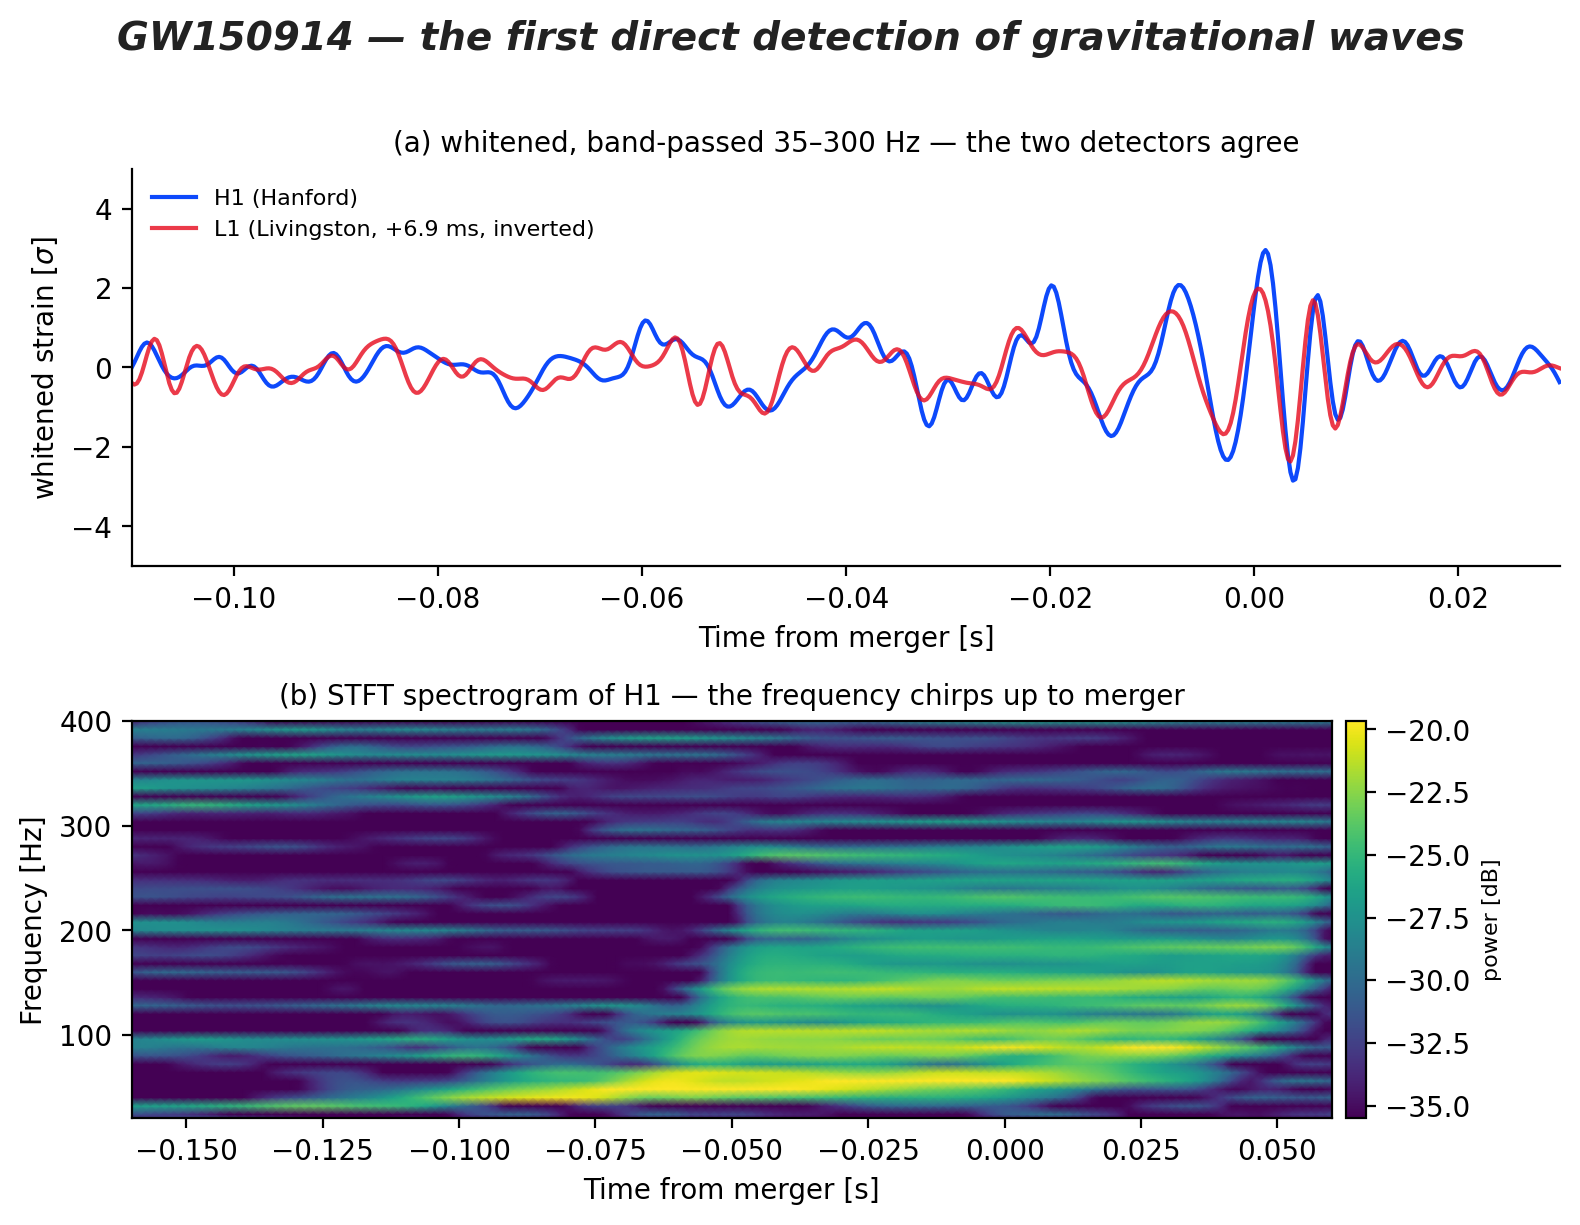
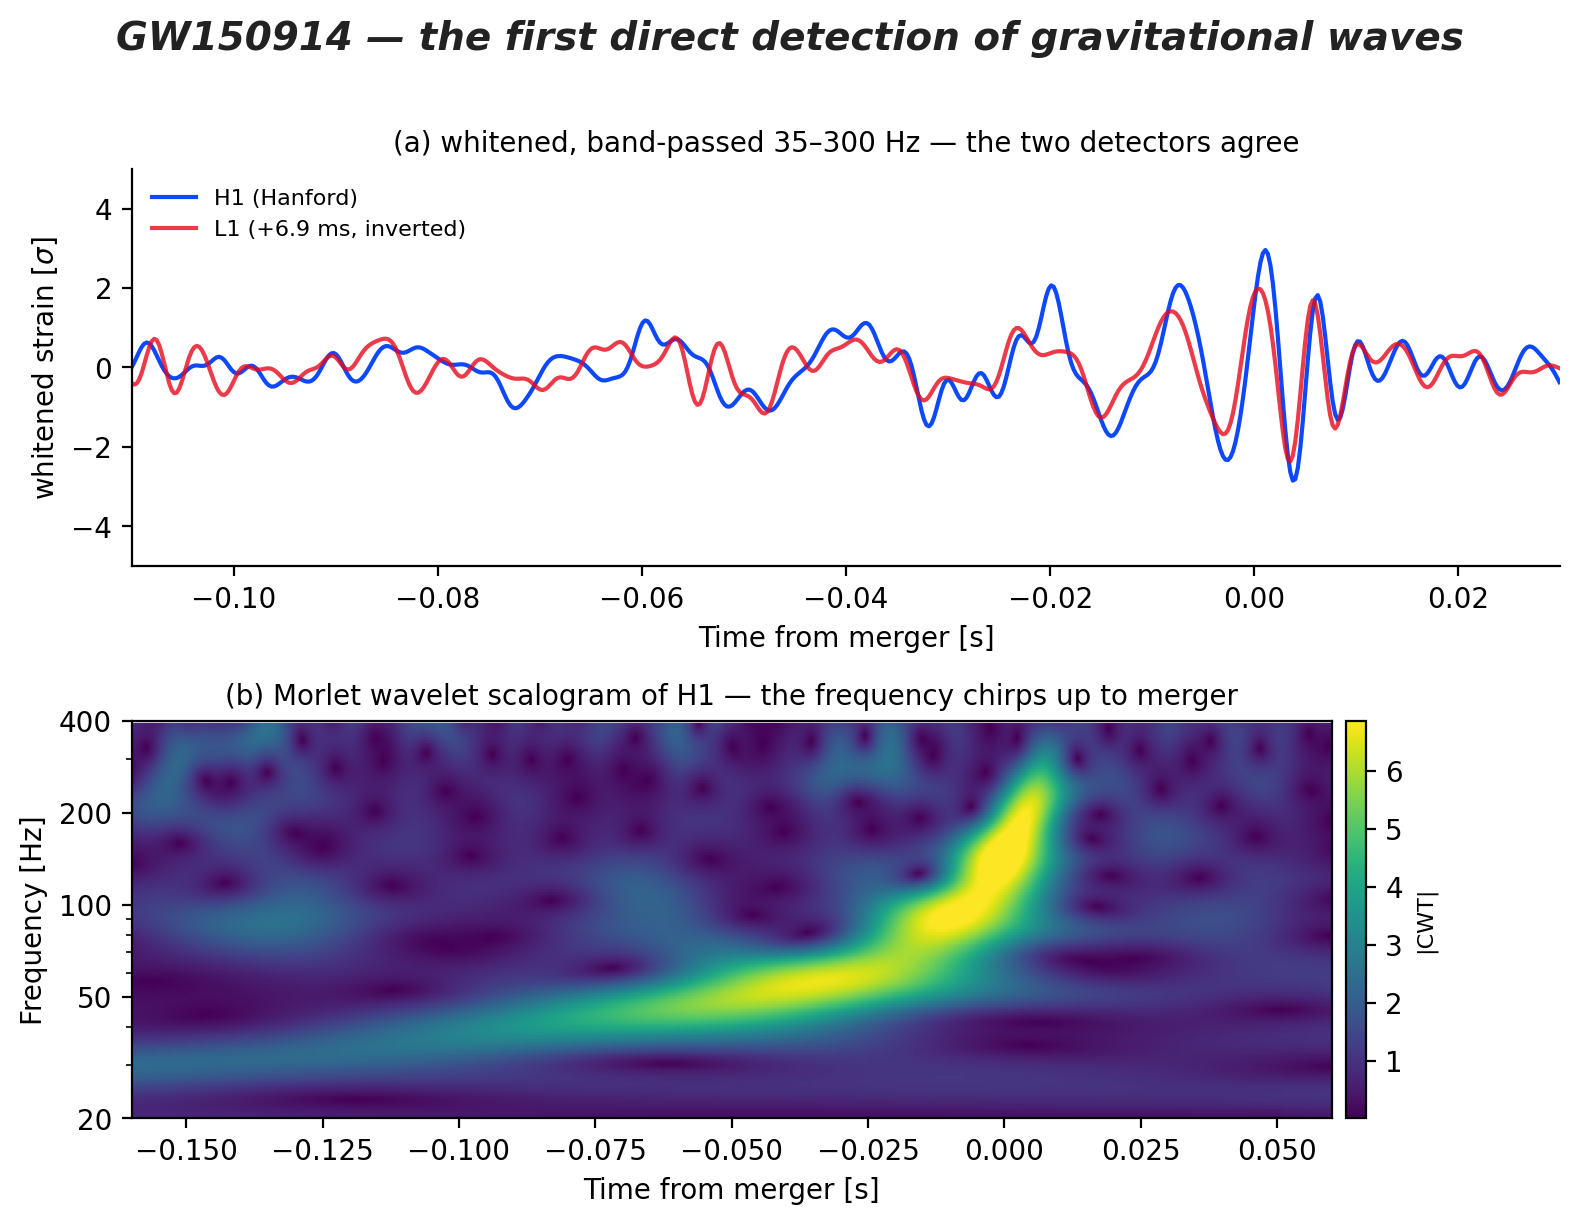
GW150914: use a Morlet wavelet (CWT) scalogram instead of STFT
The continuous wavelet transform is the right tool here — its constant-Q
window narrows in time as frequency rises, so it tracks the rapidly
accelerating inspiral chirp far more cleanly than a fixed-window STFT, and
it bridges naturally into the CWT section that follows. Panel (b) now uses
ssqueezepy.cwt; prose and notebook updated to match.

Claude-Session: https://claude.ai/code/session_013g6Jis2ksDyqM4YC8tx1nv

diff --git a/docs/chap7.html b/docs/chap7.html
@@ -705,7 +705,7 @@ The STFT spectra of a signal that consists of a growing wave, a chriping wave, a
 <div class="callout-body-container callout-body">
 <ul>
 <li><strong>Panel (a)</strong> overlays the whitened, band-passed strain from <strong>H1</strong> (Hanford) and <strong>L1</strong> (Livingston). Livingston is shifted by the <strong>6.9 ms</strong> gravitational-wave travel time between the sites and sign-flipped (the interferometers are oriented differently); the two independent instruments then trace the <em>same</em> ~8-cycle waveform — the core of the detection’s credibility.</li>
-<li><strong>Panel (b)</strong> is the STFT spectrogram of H1: the signal frequency climbs from ~35 Hz past ~150 Hz in the final ~0.2 s before merger — the inspiral chirp, made visible only because the time–frequency plane localises it in both axes at once.</li>
+<li><strong>Panel (b)</strong> is the <strong>Morlet wavelet (CWT) scalogram</strong> of H1: the signal frequency climbs from ~35 Hz past ~200 Hz in the final ~0.2 s before merger — the inspiral chirp. Because the wavelet’s window <em>narrows in time as the frequency rises</em> (constant-<span class="math inline">Q</span>), it follows the rapidly accelerating sweep far more cleanly than a fixed-window STFT could — a preview of the continuous wavelet transform introduced next.</li>
 </ul>
 </div>
 </div>
@@ -755,20 +755,25 @@ The STFT spectra of a signal that consists of a growing wave, a chriping wave, a
 <span id="cb3-35"><a href="#cb3-35" aria-hidden="true" tabindex="-1"></a>ax1.set_xlim(<span class="op">-</span><span class="fl">0.11</span>, <span class="fl">0.03</span>)<span class="op">;</span> ax1.set_ylim(<span class="op">-</span><span class="dv">5</span>, <span class="dv">5</span>)<span class="op">;</span> ax1.legend(loc<span class="op">=</span><span class="st">'upper left'</span>)</span>
 <span id="cb3-36"><a href="#cb3-36" aria-hidden="true" tabindex="-1"></a>ax1.set_xlabel(<span class="st">'Time from merger [s]'</span>)<span class="op">;</span> ax1.set_ylabel(<span class="vs">r'whitened strain </span><span class="pp">[$</span><span class="dv">\s</span><span class="pp">igma$]</span><span class="vs">'</span>)</span>
 <span id="cb3-37"><a href="#cb3-37" aria-hidden="true" tabindex="-1"></a></span>
-<span id="cb3-38"><a href="#cb3-38" aria-hidden="true" tabindex="-1"></a><span class="co"># (b) STFT spectrogram — the upward chirp</span></span>
-<span id="cb3-39"><a href="#cb3-39" aria-hidden="true" tabindex="-1"></a>f, tt, Sxx <span class="op">=</span> sig.spectrogram(whiten(H1), fs<span class="op">=</span>fs, nperseg<span class="op">=</span><span class="dv">512</span>, noverlap<span class="op">=</span><span class="dv">505</span>,</span>
-<span id="cb3-40"><a href="#cb3-40" aria-hidden="true" tabindex="-1"></a>                             window<span class="op">=</span>(<span class="st">'tukey'</span>, <span class="fl">0.25</span>))</span>
-<span id="cb3-41"><a href="#cb3-41" aria-hidden="true" tabindex="-1"></a>S_db <span class="op">=</span> <span class="dv">10</span> <span class="op">*</span> np.log10(Sxx <span class="op">+</span> <span class="fl">1e-12</span>)</span>
-<span id="cb3-42"><a href="#cb3-42" aria-hidden="true" tabindex="-1"></a>reg <span class="op">=</span> S_db[(f <span class="op">&gt;</span> <span class="dv">20</span>) <span class="op">&amp;</span> (f <span class="op">&lt;</span> <span class="dv">400</span>)][:, np.<span class="bu">abs</span>(tt <span class="op">-</span> tm) <span class="op">&lt;</span> <span class="fl">0.25</span>]</span>
-<span id="cb3-43"><a href="#cb3-43" aria-hidden="true" tabindex="-1"></a>ax2.pcolormesh(tt <span class="op">-</span> tm, f, S_db, shading<span class="op">=</span><span class="st">'gouraud'</span>, cmap<span class="op">=</span><span class="st">'viridis'</span>,</span>
-<span id="cb3-44"><a href="#cb3-44" aria-hidden="true" tabindex="-1"></a>               vmin<span class="op">=</span>np.percentile(reg, <span class="dv">40</span>), vmax<span class="op">=</span>np.percentile(reg, <span class="fl">99.7</span>))</span>
-<span id="cb3-45"><a href="#cb3-45" aria-hidden="true" tabindex="-1"></a>ax2.set_ylim(<span class="dv">20</span>, <span class="dv">400</span>)<span class="op">;</span> ax2.set_xlim(<span class="op">-</span><span class="fl">0.16</span>, <span class="fl">0.06</span>)</span>
-<span id="cb3-46"><a href="#cb3-46" aria-hidden="true" tabindex="-1"></a>ax2.set_xlabel(<span class="st">'Time from merger [s]'</span>)<span class="op">;</span> ax2.set_ylabel(<span class="st">'Frequency [Hz]'</span>)</span>
-<span id="cb3-47"><a href="#cb3-47" aria-hidden="true" tabindex="-1"></a></span>
-<span id="cb3-48"><a href="#cb3-48" aria-hidden="true" tabindex="-1"></a>fig.suptitle(<span class="st">'GW150914 — the first direct detection of gravitational waves'</span>,</span>
-<span id="cb3-49"><a href="#cb3-49" aria-hidden="true" tabindex="-1"></a>             fontsize<span class="op">=</span><span class="dv">14</span>, fontweight<span class="op">=</span><span class="st">'bold'</span>, fontstyle<span class="op">=</span><span class="st">'italic'</span>)</span>
-<span id="cb3-50"><a href="#cb3-50" aria-hidden="true" tabindex="-1"></a>plt.tight_layout(rect<span class="op">=</span>[<span class="dv">0</span>, <span class="dv">0</span>, <span class="dv">1</span>, <span class="fl">0.97</span>])</span>
-<span id="cb3-51"><a href="#cb3-51" aria-hidden="true" tabindex="-1"></a>plt.savefig(save_path <span class="op">+</span> <span class="st">'figure_ligo_gw150914.png'</span>, bbox_inches<span class="op">=</span><span class="st">'tight'</span>, dpi<span class="op">=</span><span class="dv">200</span>)</span></code></pre></div><button title="Copy to Clipboard" class="code-copy-button"><i class="bi"></i></button></div>
+<span id="cb3-38"><a href="#cb3-38" aria-hidden="true" tabindex="-1"></a><span class="co"># (b) Morlet wavelet (CWT) scalogram — the upward chirp</span></span>
+<span id="cb3-39"><a href="#cb3-39" aria-hidden="true" tabindex="-1"></a><span class="im">import</span> ssqueezepy</span>
+<span id="cb3-40"><a href="#cb3-40" aria-hidden="true" tabindex="-1"></a><span class="im">from</span> ssqueezepy.experimental <span class="im">import</span> scale_to_freq</span>
+<span id="cb3-41"><a href="#cb3-41" aria-hidden="true" tabindex="-1"></a>mw <span class="op">=</span> (t <span class="op">&gt;</span> tm <span class="op">-</span> <span class="fl">1.0</span>) <span class="op">&amp;</span> (t <span class="op">&lt;</span> tm <span class="op">+</span> <span class="fl">0.5</span>)              <span class="co"># a short window around the event</span></span>
+<span id="cb3-42"><a href="#cb3-42" aria-hidden="true" tabindex="-1"></a>xw, tw <span class="op">=</span> whiten(H1)[mw], t[mw] <span class="op">-</span> tm</span>
+<span id="cb3-43"><a href="#cb3-43" aria-hidden="true" tabindex="-1"></a>Wx, scales <span class="op">=</span> ssqueezepy.cwt(xw, (<span class="st">'morlet'</span>, {<span class="st">'mu'</span>: <span class="dv">6</span>}), fs<span class="op">=</span>fs, l1_norm<span class="op">=</span><span class="va">False</span>)</span>
+<span id="cb3-44"><a href="#cb3-44" aria-hidden="true" tabindex="-1"></a>freqs <span class="op">=</span> scale_to_freq(scales, (<span class="st">'morlet'</span>, {<span class="st">'mu'</span>: <span class="dv">6</span>}), <span class="bu">len</span>(xw), fs<span class="op">=</span>fs)</span>
+<span id="cb3-45"><a href="#cb3-45" aria-hidden="true" tabindex="-1"></a>sel <span class="op">=</span> (freqs <span class="op">&gt;=</span> <span class="dv">20</span>) <span class="op">&amp;</span> (freqs <span class="op">&lt;=</span> <span class="dv">400</span>)</span>
+<span id="cb3-46"><a href="#cb3-46" aria-hidden="true" tabindex="-1"></a>A <span class="op">=</span> np.<span class="bu">abs</span>(Wx[sel])</span>
+<span id="cb3-47"><a href="#cb3-47" aria-hidden="true" tabindex="-1"></a>ax2.pcolormesh(tw, freqs[sel], A, shading<span class="op">=</span><span class="st">'gouraud'</span>, cmap<span class="op">=</span><span class="st">'viridis'</span>,</span>
+<span id="cb3-48"><a href="#cb3-48" aria-hidden="true" tabindex="-1"></a>               vmax<span class="op">=</span>np.percentile(A[:, np.<span class="bu">abs</span>(tw) <span class="op">&lt;</span> <span class="fl">0.2</span>], <span class="fl">99.6</span>))</span>
+<span id="cb3-49"><a href="#cb3-49" aria-hidden="true" tabindex="-1"></a>ax2.set_yscale(<span class="st">'log'</span>)<span class="op">;</span> ax2.set_ylim(<span class="dv">20</span>, <span class="dv">400</span>)<span class="op">;</span> ax2.set_xlim(<span class="op">-</span><span class="fl">0.16</span>, <span class="fl">0.06</span>)</span>
+<span id="cb3-50"><a href="#cb3-50" aria-hidden="true" tabindex="-1"></a>ax2.set_yticks([<span class="dv">20</span>, <span class="dv">50</span>, <span class="dv">100</span>, <span class="dv">200</span>, <span class="dv">400</span>])<span class="op">;</span> ax2.set_yticklabels([<span class="dv">20</span>, <span class="dv">50</span>, <span class="dv">100</span>, <span class="dv">200</span>, <span class="dv">400</span>])</span>
+<span id="cb3-51"><a href="#cb3-51" aria-hidden="true" tabindex="-1"></a>ax2.set_xlabel(<span class="st">'Time from merger [s]'</span>)<span class="op">;</span> ax2.set_ylabel(<span class="st">'Frequency [Hz]'</span>)</span>
+<span id="cb3-52"><a href="#cb3-52" aria-hidden="true" tabindex="-1"></a></span>
+<span id="cb3-53"><a href="#cb3-53" aria-hidden="true" tabindex="-1"></a>fig.suptitle(<span class="st">'GW150914 — the first direct detection of gravitational waves'</span>,</span>
+<span id="cb3-54"><a href="#cb3-54" aria-hidden="true" tabindex="-1"></a>             fontsize<span class="op">=</span><span class="dv">14</span>, fontweight<span class="op">=</span><span class="st">'bold'</span>, fontstyle<span class="op">=</span><span class="st">'italic'</span>)</span>
+<span id="cb3-55"><a href="#cb3-55" aria-hidden="true" tabindex="-1"></a>plt.tight_layout(rect<span class="op">=</span>[<span class="dv">0</span>, <span class="dv">0</span>, <span class="dv">1</span>, <span class="fl">0.97</span>])</span>
+<span id="cb3-56"><a href="#cb3-56" aria-hidden="true" tabindex="-1"></a>plt.savefig(save_path <span class="op">+</span> <span class="st">'figure_ligo_gw150914.png'</span>, bbox_inches<span class="op">=</span><span class="st">'tight'</span>, dpi<span class="op">=</span><span class="dv">200</span>)</span></code></pre></div><button title="Copy to Clipboard" class="code-copy-button"><i class="bi"></i></button></div>
 </div>
 </div>
 </div>
